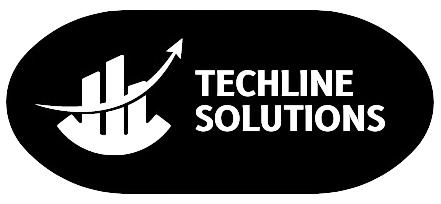
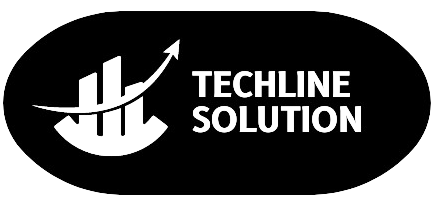
first commit

diff --git a/index.html b/index.html
@@ -108,7 +108,7 @@
                         <div class="col-lg-8">
                             <p
                                 class="d-inline-block border border-white rounded  fw-semi-bold py-1 px-3 animated slideInDown">
-                                Welcome to Techline Solutions</p>
+                                Welcome to Techline Solution</p>
                             <h1 class="display-4 text-light mb-4 animated slideInDown">Your Financial Status Is Our Goal
                             </h1>
                             <a href="" class="btn btn-light py-3 px-5 animated slideInDown">Contact Us</a>
